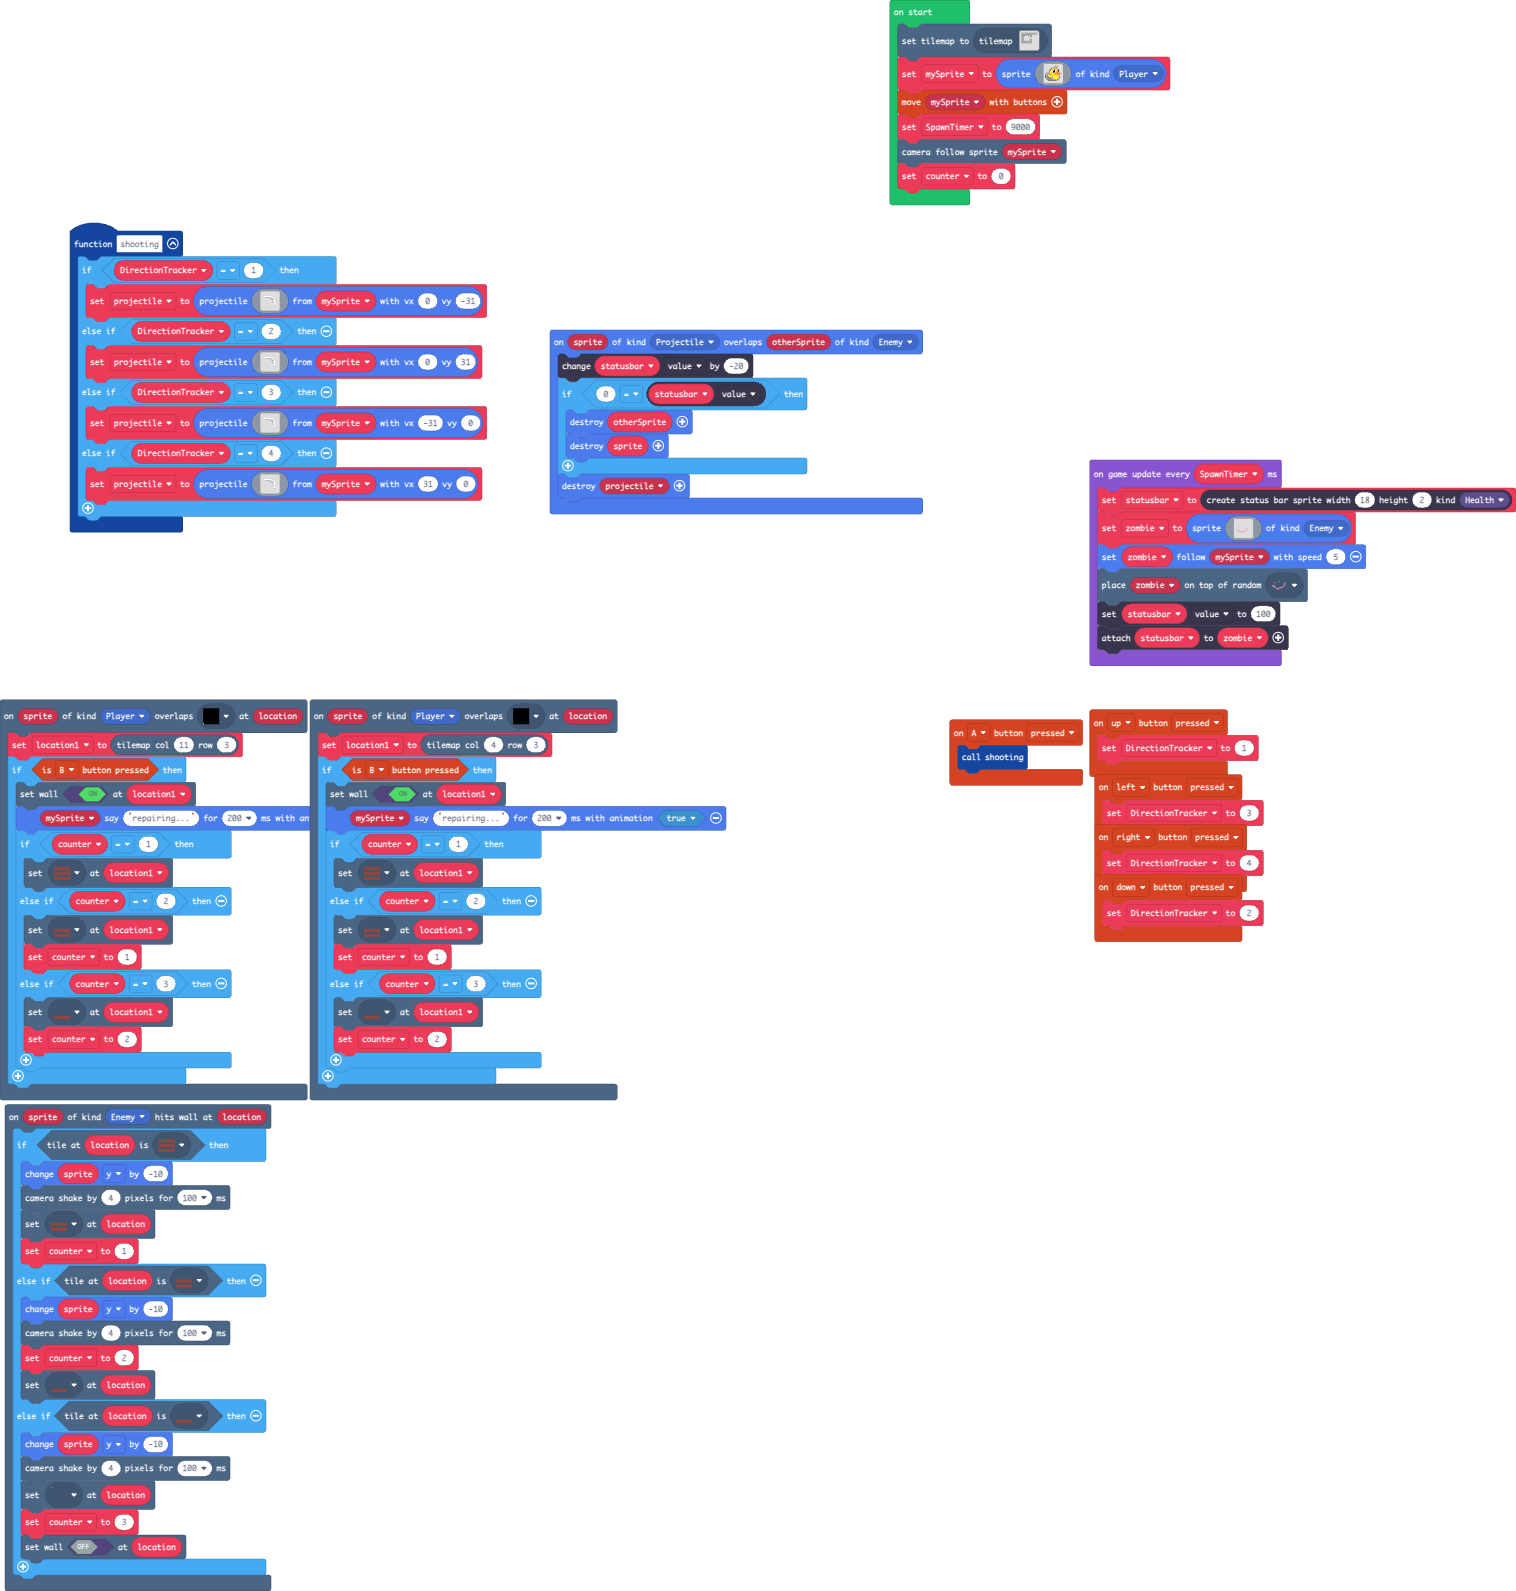
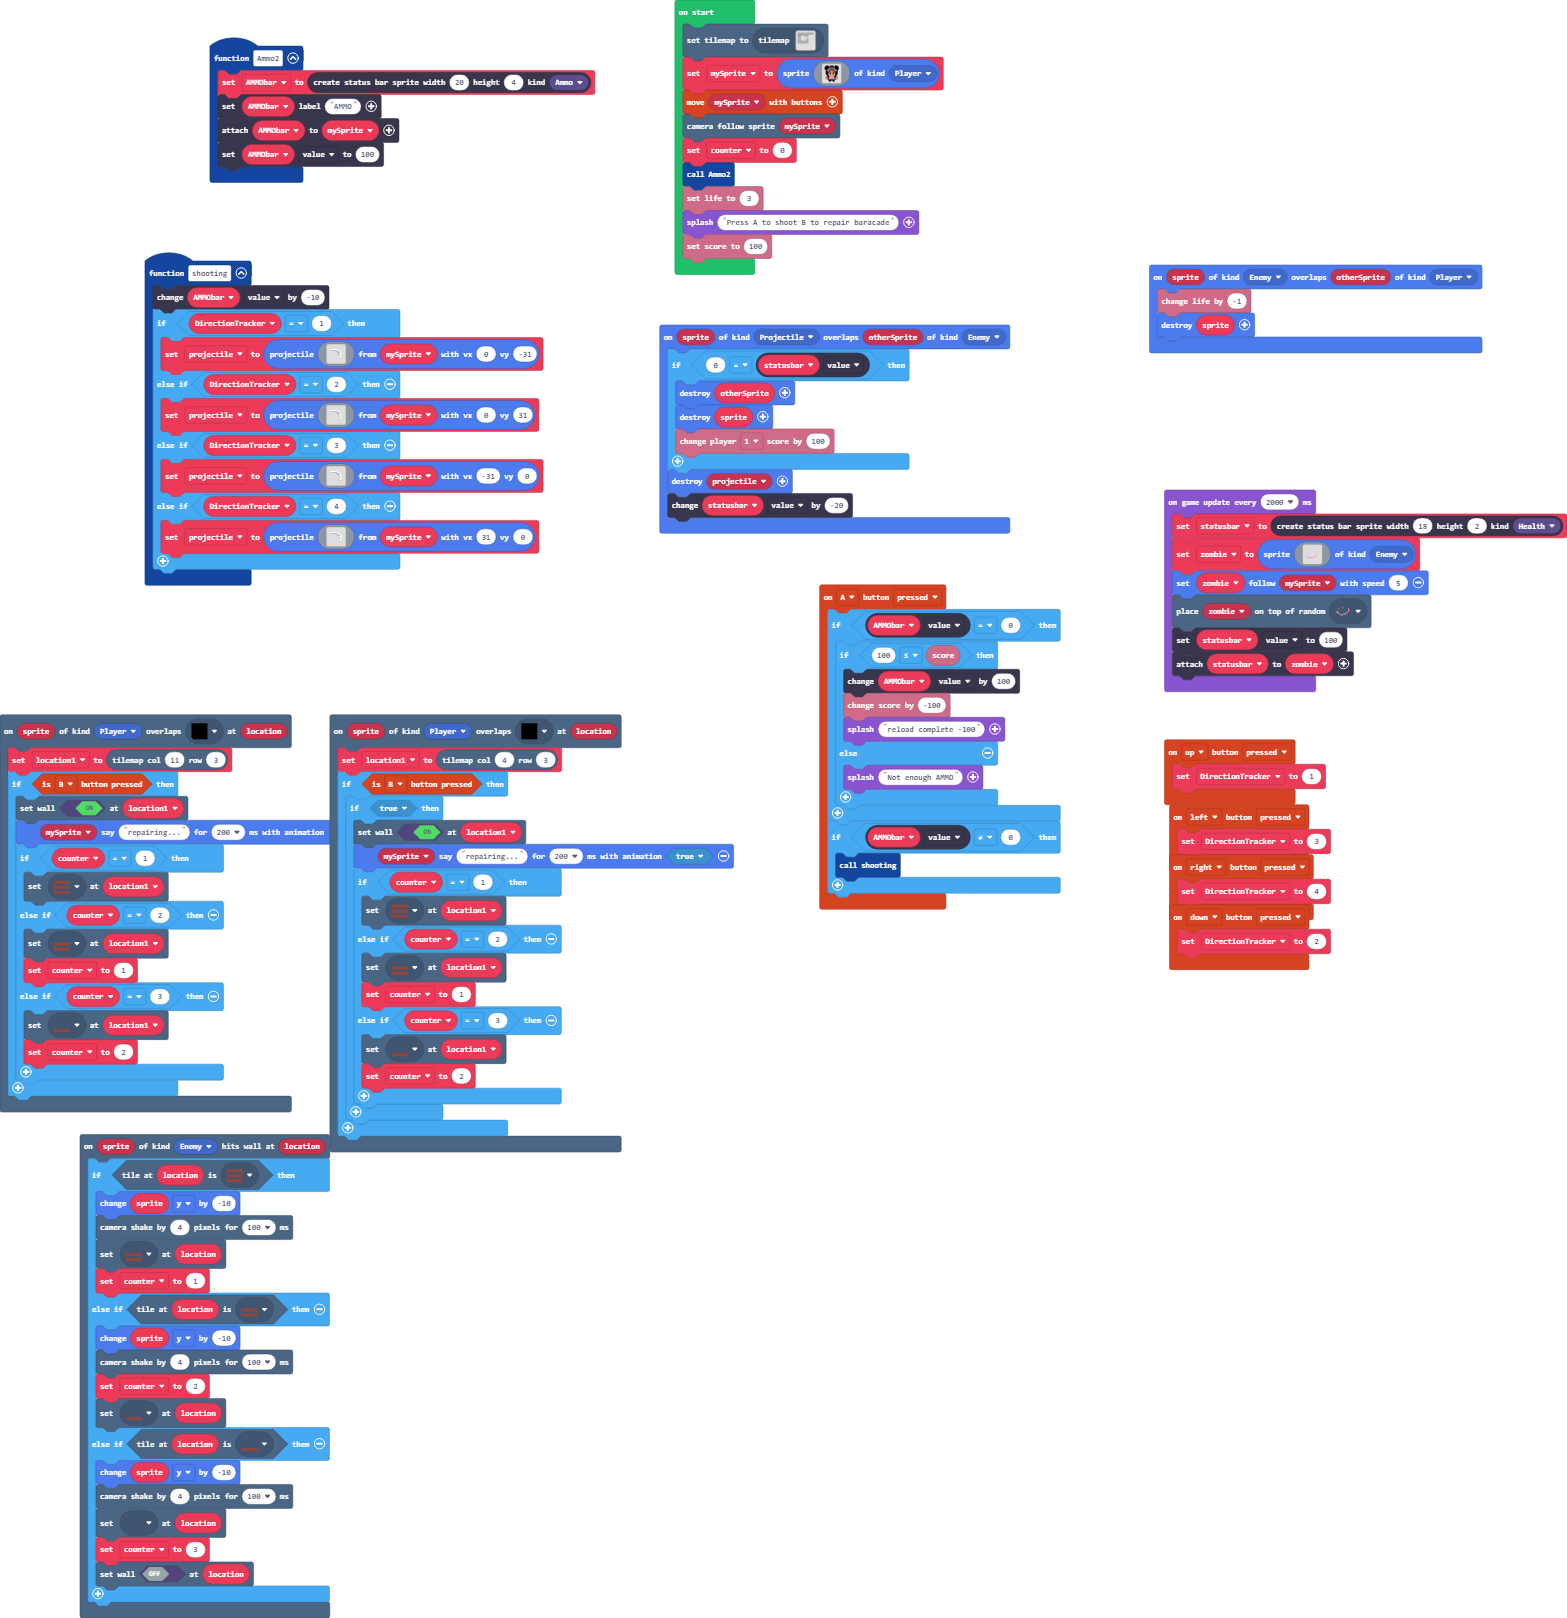
ammo and fixing game logic

Changed region(s): [[0.0, 0.0, 1.0, 1.0], [0.7131, 0.154, 0.9611, 0.2464]]

diff --git a/main.ts b/main.ts
@@ -1,6 +1,9 @@
 namespace SpriteKind {
     export const Block = SpriteKind.create()
 }
+namespace StatusBarKind {
+    export const Ammo = StatusBarKind.create()
+}
 scene.onOverlapTile(SpriteKind.Player, assets.tile`FLOOR0`, function (sprite, location) {
     location1 = tiles.getTileLocation(11, 3)
     if (controller.B.isPressed()) {
@@ -21,7 +24,18 @@ controller.up.onEvent(ControllerButtonEvent.Pressed, function () {
     DirectionTracker = 1
 })
 controller.A.onEvent(ControllerButtonEvent.Pressed, function () {
-    shooting()
+    if (AMMObar.value == 0) {
+        if (100 <= info.score()) {
+            AMMObar.value += 100
+            info.changeScoreBy(-100)
+            game.splash("reload complete -100")
+        } else {
+            game.splash("Not enough AMMO")
+        }
+    }
+    if (AMMObar.value != 0) {
+        shooting()
+    }
 })
 controller.left.onEvent(ControllerButtonEvent.Pressed, function () {
     DirectionTracker = 3
@@ -48,26 +62,39 @@ scene.onHitWall(SpriteKind.Enemy, function (sprite, location) {
 controller.right.onEvent(ControllerButtonEvent.Pressed, function () {
     DirectionTracker = 4
 })
+function Ammo2 () {
+    AMMObar = statusbars.create(20, 4, StatusBarKind.Ammo)
+    AMMObar.setLabel("AMMO")
+    AMMObar.attachToSprite(mySprite)
+    AMMObar.value = 100
+}
+sprites.onOverlap(SpriteKind.Enemy, SpriteKind.Player, function (sprite, otherSprite) {
+    info.changeLifeBy(-1)
+    sprites.destroy(sprite)
+})
 controller.down.onEvent(ControllerButtonEvent.Pressed, function () {
     DirectionTracker = 2
 })
 scene.onOverlapTile(SpriteKind.Player, assets.tile`FLOOR`, function (sprite, location) {
     location1 = tiles.getTileLocation(4, 3)
     if (controller.B.isPressed()) {
-        tiles.setWallAt(location1, true)
-        mySprite.sayText("repairing...", 200, true)
-        if (counter == 1) {
-            tiles.setTileAt(location1, assets.tile`baracade`)
-        } else if (counter == 2) {
-            tiles.setTileAt(location1, assets.tile`baracade0`)
-            counter = 1
-        } else if (counter == 3) {
-            tiles.setTileAt(location1, assets.tile`baracade1`)
-            counter = 2
+        if (true) {
+            tiles.setWallAt(location1, true)
+            mySprite.sayText("repairing...", 200, true)
+            if (counter == 1) {
+                tiles.setTileAt(location1, assets.tile`baracade`)
+            } else if (counter == 2) {
+                tiles.setTileAt(location1, assets.tile`baracade0`)
+                counter = 1
+            } else if (counter == 3) {
+                tiles.setTileAt(location1, assets.tile`baracade1`)
+                counter = 2
+            }
         }
     }
 })
 function shooting () {
+    AMMObar.value += -10
     if (DirectionTracker == 1) {
         projectile = sprites.createProjectileFromSprite(assets.image`blade`, mySprite, 0, -31)
     } else if (DirectionTracker == 2) {
@@ -79,16 +106,18 @@ function shooting () {
     }
 }
 sprites.onOverlap(SpriteKind.Projectile, SpriteKind.Enemy, function (sprite, otherSprite) {
-    statusbar.value += -20
     if (0 == statusbar.value) {
         sprites.destroy(otherSprite)
         sprites.destroy(sprite)
+        info.player1.changeScoreBy(100)
     }
     sprites.destroy(projectile)
+    statusbar.value += -20
 })
 let zombie: Sprite = null
 let statusbar: StatusBarSprite = null
 let projectile: Sprite = null
+let AMMObar: StatusBarSprite = null
 let DirectionTracker = 0
 let location1: tiles.Location = null
 let counter = 0
@@ -96,10 +125,13 @@ let mySprite: Sprite = null
 tiles.setCurrentTilemap(tilemap`testing`)
 mySprite = sprites.create(assets.image`blob`, SpriteKind.Player)
 controller.moveSprite(mySprite)
-let SpawnTimer = 9000
 scene.cameraFollowSprite(mySprite)
 counter = 0
-game.onUpdateInterval(SpawnTimer, function () {
+Ammo2()
+info.setLife(3)
+game.splash("Press A to shoot B to repair baracade")
+info.setScore(100)
+game.onUpdateInterval(2000, function () {
     statusbar = statusbars.create(18, 2, StatusBarKind.Health)
     zombie = sprites.create(assets.image`myImage0`, SpriteKind.Enemy)
     zombie.follow(mySprite, 5)

diff --git a/images.g.ts b/images.g.ts
@@ -41,25 +41,6 @@ e e e e e e e e e e e e e e e e
 . . . . . . . . . . . . . . . . 
 . . . . . . . . . . . . . . . . 
 `;
-            case "image3":
-            case "blob":return img`
-. . . . . . . . . . b 5 b . . . 
-. . . . . . . . . b 5 b . . . . 
-. . . . . . b b b b b b . . . . 
-. . . . . b b 5 5 5 5 5 b . . . 
-. . . . b b 5 d 1 f 5 5 d f . . 
-. . . . b 5 5 1 f f 5 d 4 c . . 
-. . . . b 5 5 d f b d d 4 4 . . 
-. b b b d 5 5 5 5 5 4 4 4 4 4 b 
-b d d d b b d 5 5 4 4 4 4 4 b . 
-b b d 5 5 5 b 5 5 5 5 5 5 b . . 
-c d c 5 5 5 5 d 5 5 5 5 5 5 b . 
-c b d c d 5 5 b 5 5 5 5 5 5 b . 
-. c d d c c b d 5 5 5 5 5 d b . 
-. . c b d d d d d 5 5 5 b b . . 
-. . . c c c c c c c c b b . . . 
-. . . . . . . . . . . . . . . . 
-`;
             case "image4":
             case "blank":return img`
 . . . . . . . . . . . . . . . . 
@@ -98,13 +79,67 @@ c b d c d 5 5 b 5 5 5 5 5 5 b .
 . . . . . . . . . . . . . . . . 
 . . . . . . . . . . . . . . . . 
 `;
+            case "image3":
+            case "blob":return img`
+. f f f . f f f f . f f f . 
+f f f f f c c c c f f f f f 
+f f f f b c c c c b f f f f 
+f f f c 3 c c c c 3 c f f f 
+. f 3 3 c c c c c c 3 3 f . 
+. f c c c c 4 4 c c c c f . 
+. f f c c 4 4 4 4 c c f f . 
+. f f f b f 4 4 f b f f f . 
+. f f 4 1 f d d f 1 4 f f . 
+. . f f d d d d d d f f . . 
+. . e f e 4 4 4 4 e f e . . 
+. e 4 f b 3 3 3 3 b f 4 e . 
+. 4 d f 3 3 3 3 3 3 c d 4 . 
+. 4 4 f 6 6 6 6 6 6 f 4 4 . 
+. . . . f f f f f f . . . . 
+. . . . f f . . f f . . . . 
+`;
         }
         return null;
     })
 
     helpers._registerFactory("animation", function(name: string) {
         switch(helpers.stringTrim(name)) {
-
+            case "reload":
+            case "anim1":return [img`
+. . . . . . . . . . . . . . . . 
+. . . . . . . . . . . . . . . . 
+. . . . . . 1 1 1 1 1 1 . . . . 
+. . . . . . . . . . . 1 1 1 . . 
+. . . . . . . . . . . . . 1 . . 
+. . . . . . . . . . . . . 1 1 . 
+. . . . . . . . . . . . . . 1 . 
+. . 1 . . . . . . . . . . . . . 
+. . 1 . . . . . . . . . . . . . 
+. . 1 . . . . . . . . . . . . . 
+. . 1 . . . . . . . . . . . . . 
+. . 1 1 . . . . . . . . . . . . 
+. . . 1 1 1 . . . . . . . . . . 
+. . . . . 1 1 1 1 . . . . . . . 
+. . . . . . . . . . . . . . . . 
+. . . . . . . . . . . . . . . . 
+`, img`
+. . . . . . . . . . . . . . . . 
+. . . . . . . . . . . . . . . . 
+. . . . . . . . . . . . . . . . 
+. . . . . . . . . . . . . . . . 
+. . . . . . . . . . . . . . . . 
+. . . . . . . . . . . . . . . . 
+. . . . . . . . . . . . . . . . 
+. . . . . . . . . . . . . . . . 
+. . . . . . . . . . . . . . . . 
+. . . . . . . . . . . . . . . . 
+. . . . . . . . . . . . . . . . 
+. . . . . . . . . . . . . . . . 
+. . . . . . . . . . . . . . . . 
+. . . . . . . . . . . . . . . . 
+. . . . . . . . . . . . . . . . 
+. . . . . . . . . . . . . . . . 
+`];
         }
         return null;
     })
